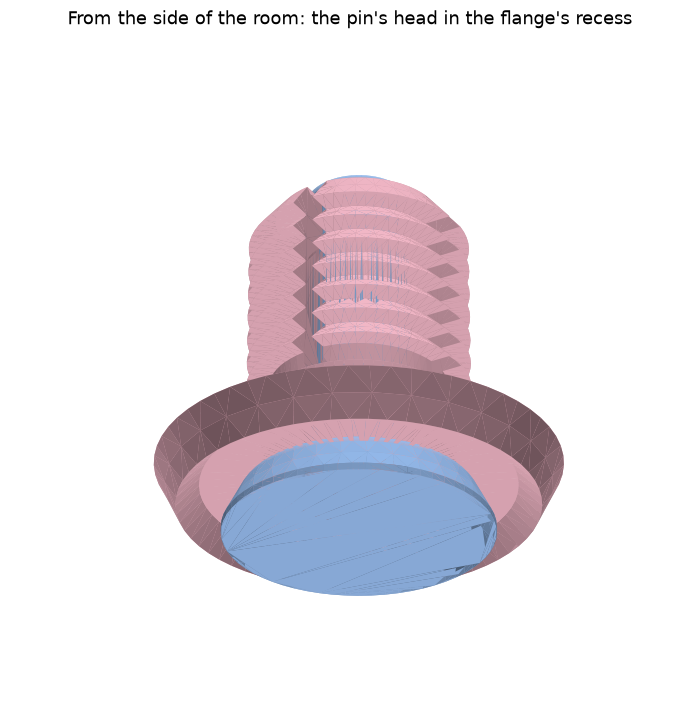
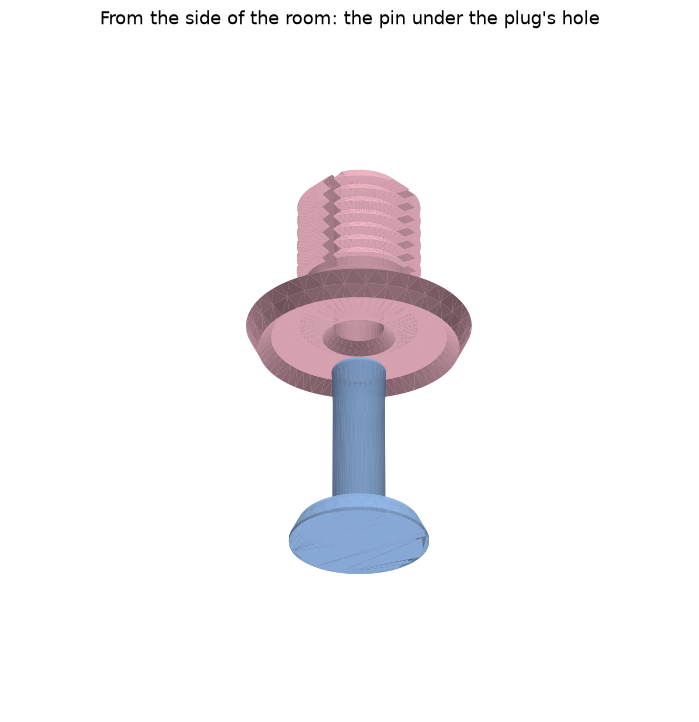
bekant-net-holder: a plug 10/9 as big, as measured on a holder on the desk, and a pin 0.2 mm thinner that spreads its prongs
The model the plug's shape comes from is IKEA's part at 90%: its flange is
18 mm and its collar 9.5 mm, against 20 mm and 10.55 mm measured on the desk.
The hole through the plug is 4.44 mm, narrower than the pin, so the pin pushes
the prongs apart. The pin's shaft is 4.55 mm, widening to 4.78 mm.

Changed region(s): [[0.2103, 0.2133, 0.8112, 0.8227], [0.0901, 0.0, 0.9013, 0.0609]]

diff --git a/parts/bekant-net-holder/part.py b/parts/bekant-net-holder/part.py
@@ -1,7 +1,7 @@
 """bekant-net-holder: a holder for the IKEA Bekant's cable net, in place of IKEA's part 130884.
 
 A plug with barbs goes into a hole under the desk, and its flange holds a loop of the net. A pin goes into the plug
-from below and keeps its four prongs apart, so the barbs stay in the hole.
+from below and pushes its four prongs apart, so the barbs press into the hole's wall.
 
 Every size is a named constant below. Coordinates: x and y across, z up from the flange's rim, the plug's face that
 lies on the plate. Under the desk the whole thing hangs the other way up.
@@ -18,11 +18,8 @@ from build123d import Align, Axis, Box, Circle, Cone, Cylinder, Plane, Pos, Rect
 # run some other way.
 sys.path.insert(0, str(Path(__file__).resolve().parents[2] / "lib"))
 import plate  # noqa: E402
-from printers import chosen  # noqa: E402
 
 HERE = Path(__file__).parent
-# The fits the calibration piece showed for the printer and material the build is for (printers.toml).
-FITS = chosen().fits
 CUT = 1  # a cut runs this far past what it cuts through, so it leaves no skin
 MIN = (Align.CENTER, Align.CENTER, Align.MIN)
 
@@ -32,35 +29,41 @@ HEAD_THICK = 2.3  # the head, from its outer face to the face that lies in the r
 HEAD_EDGE = 0.3  # the head's side is straight this far up from its outer face, then slopes in
 HEAD_FLAT = 8.76  # the head's face in the recess, across its flat
 HEAD_ROUND = 1  # the radius the head's side rounds over with to that face
-PIN = 4.75  # the pin's shaft across
+THINNER = 0.2  # the shaft is this much thinner than the model's, which is too thick for the printed plug's hole
+PIN = 4.75 - THINNER  # the pin's shaft across
 PIN_ROOT = 0.75  # the radius the shaft rounds out with into the head
 PIN_LENGTH = 14.9  # the shaft, from the head to its end
 PIN_STRAIGHT = 11.3  # the shaft is PIN across this far from the head, then widens
-PIN_END = 4.98  # the shaft across at its widest, next to its end
+PIN_END = 4.98 - THINNER  # the shaft across at its widest, next to its end
 PIN_TIP = 0.5  # the radius the shaft's end rounds over with, so it finds the hole
 
-# The plug.
-DESK_HOLE = 9  # the hole under the desk across, the user's measurement on the Bekant
-SLIDE = 0.2  # the room around the collar in that hole, on each side: it slides in
-FLANGE = 18  # the flange across, where it lies against the desk
-RIM = 16  # the flange across at its rim, the edge away from the desk: its side slopes
-FLANGE_THICK = 2  # the flange, from its rim to the desk
-RECESS = 1  # the recess inside the rim, deep; the pin's head sits in it
-RECESS_FLOOR = 14  # that recess across at its floor: it widens to RIM at the rim
-COLLAR = DESK_HOLE - 2 * SLIDE  # the round shaft across, next to the flange
-COLLAR_HEIGHT = 3  # that shaft, up from the flange
-NECK = 8  # the shaft across between the collar and the first barb
-NECK_HEIGHT = 1  # that neck, up from the collar
-BARB = 10  # a barb across at its wide end, which faces the flange: wider than the desk's hole, so it catches
-BARB_ROOT = 7.6  # a barb across at its narrow end
-BARB_PITCH = 1.2  # a barb, up
+# The plug. Its shape is measured on a model of the holder, ikea130884 v2.stl, which is smaller than IKEA's part:
+# the model's flange is 18 mm across and its collar 9.5 mm, and the user measured 20 mm and 10.55 mm on a holder on
+# the desk. Both are 10/9, so every size of the model is made that much bigger.
+RING = 20  # IKEA's flange across, the user's measurement on a holder on the desk
+MODEL_FLANGE = 18  # the model's flange across
+SCALE = RING / MODEL_FLANGE
+SLIDE = 0.2  # the room between the hole's cut-away edge and the pin's root
+FLANGE = MODEL_FLANGE * SCALE  # the flange across, where it lies against the desk
+RIM = 16 * SCALE  # the flange across at its rim, the edge away from the desk: its side slopes
+FLANGE_THICK = 2 * SCALE  # the flange, from its rim to the desk
+RECESS = 1 * SCALE  # the recess inside the rim, deep; the pin's head sits in it
+RECESS_FLOOR = 14 * SCALE  # that recess across at its floor: it widens to RIM at the rim
+COLLAR = 9.5 * SCALE  # the round shaft across, next to the flange
+COLLAR_HEIGHT = 3 * SCALE  # that shaft, up from the flange
+NECK = 8.8 * SCALE  # the shaft across between the collar and the first barb
+NECK_HEIGHT = 1 * SCALE  # that neck, up from the collar
+BARB = 10 * SCALE  # a barb across at its wide end, which faces the flange
+BARB_ROOT = 7.6 * SCALE  # a barb across at its narrow end
+BARB_PITCH = 1.2 * SCALE  # a barb, up
 BARBS = 6
-TIP = 7.6  # the prongs across at their end
-TIP_HEIGHT = 1.5  # the last barb, which narrows to TIP
-HOLE = PIN + 2 * FITS.printed_grip  # the hole through the plug: the pin pushes into it and holds
-HOLE_END = PIN_END + 2 * FITS.printed_grip  # the hole across where the pin is widest
-HOLE_EDGE = PIN_ROOT + SLIDE  # the hole's edge in the recess is cut away this far, so it clears the pin's root
-SLOT = 1  # each of the two slots that split the shaft into four prongs, wide
+TIP = 7 * SCALE  # the prongs across at their end
+TIP_HEIGHT = 1.5 * SCALE  # the last barb, which narrows to TIP
+HOLE = 4 * SCALE  # the hole through the plug: narrower than the pin, which pushes the prongs apart
+HOLE_EDGE = (PIN - HOLE) / 2 + PIN_ROOT + SLIDE  # the hole's edge in the recess is cut away this far: it clears the
+# pin's root and leads the pin in
+SLOT = 1 * SCALE  # each of the two slots that split the shaft into four prongs, wide
+PIN_OUT = 2  # the pin is modelled out of the plug, its end this far under the rim: in the plug it spreads the prongs
 
 RECESS_SLOPE = (RIM - RECESS_FLOOR) / 2 / RECESS  # how much the recess widens for every mm toward the rim
 COLLAR_Z = FLANGE_THICK  # where the collar starts
@@ -68,12 +71,12 @@ NECK_Z = COLLAR_Z + COLLAR_HEIGHT  # where the neck starts, and the slots
 BARB_Z = NECK_Z + NECK_HEIGHT  # where the first barb starts
 TIP_Z = BARB_Z + BARBS * BARB_PITCH  # where the last barb starts
 TOP = TIP_Z + TIP_HEIGHT  # the prongs' end
-WIDENING = PIN_LENGTH - PIN_STRAIGHT - PIN_TIP  # the length the pin's shaft widens over, and the hole with it
+WIDENING = PIN_LENGTH - PIN_STRAIGHT - PIN_TIP  # the length the pin's shaft widens over
 WIDE_Z = RECESS + PIN_STRAIGHT  # where the pin's shaft starts to widen
 HEAD_Z = RECESS - HEAD_THICK  # the head's outer face, which is below the rim
 VIEWS = (
     *plate.ANGLE,
-    ("under.png", -30, -60, "From the side of the room: the pin's head in the flange's recess"),
+    ("under.png", -30, -60, "From the side of the room: the pin under the plug's hole"),
     ("side.png", 0, -90, "From the side: the barbs, and a slot between two prongs"),
 )
 
@@ -94,11 +97,7 @@ def plug():
     for i in range(BARBS):
         shaft += Pos(0, 0, BARB_Z + i * BARB_PITCH) * Cone(BARB / 2, BARB_ROOT / 2, BARB_PITCH, align=MIN)
     shaft += Pos(0, 0, TIP_Z) * Cone(BARB / 2, TIP / 2, TIP_HEIGHT, align=MIN)
-    # The hole follows the pin: straight, then wider. The prongs bend apart to let the pin's wide end through the
-    # straight length. The wide lengths run past the prongs' end when the pin does.
-    hole = Pos(0, 0, -CUT) * Cylinder(HOLE / 2, WIDE_Z + CUT, align=MIN)
-    hole += Pos(0, 0, WIDE_Z) * Cone(HOLE / 2, HOLE_END / 2, WIDENING, align=MIN)
-    hole += Pos(0, 0, WIDE_Z + WIDENING) * Cylinder(HOLE_END / 2, TOP + CUT, align=MIN)
+    hole = Pos(0, 0, -CUT) * Cylinder(HOLE / 2, TOP + 2 * CUT, align=MIN)
     hole += Pos(0, 0, RECESS) * Cone(HOLE / 2 + HOLE_EDGE, HOLE / 2, HOLE_EDGE, align=MIN)
     return flange + shaft - recess - hole - slot() - Rot(0, 0, 90) * slot()
 
@@ -137,9 +136,10 @@ def pin():
 
 def main():
     # The recess's floor hangs over the plate, so it prints on supports. They stand on the plate only: the barbs'
-    # flat faces are 1.2 mm ledges and print without.
+    # flat faces are 1.3 mm ledges and print without.
     supports = {"enable_support": "1", "support_on_build_plate_only": "1"}
-    plate.run(HERE, printed={"plug": plug(), "pin": pin()}, slicer={"plug": supports}, views=VIEWS)
+    out = Pos(0, 0, -(RECESS + PIN_LENGTH + PIN_OUT)) * pin()
+    plate.run(HERE, printed={"plug": plug(), "pin": out}, slicer={"plug": supports}, views=VIEWS)
 
 
 if __name__ == "__main__":

diff --git a/parts/bekant-net-holder/README.md b/parts/bekant-net-holder/README.md
@@ -2,7 +2,7 @@
 
 A holder for the IKEA Bekant's cable net, in place of IKEA's part 130884. A plug with barbs goes
 into a hole under the desk, and its flange holds a loop of the net. A pin goes into the plug and
-keeps its prongs apart, so the barbs stay in the hole.
+pushes its prongs apart, so the barbs press into the hole's wall.
 
 ![bekant-net-holder](pictures/angle.png)
 
@@ -17,32 +17,37 @@ keeps its prongs apart, so the barbs stay in the hole.
 | `plug` | 1 | Standing on its flange's rim, prongs up | Under the recess's floor, from the plate only |
 | `pin` | 1 | Standing on its head, shaft up | None |
 
-The hole under the desk is 9 mm across. The plug's flange is 18 mm across against the desk and
-16 mm at its rim, 2 mm thick. Inside the rim is a recess 1 mm deep, 14 mm across at its floor,
-which the pin's head sits in. The shaft is 12.7 mm long: an 8.6 mm collar, 3 mm high, which
-slides into the desk's hole with 0.2 mm on either side, an 8 mm neck, 1 mm high, and seven barbs.
-Each barb is 10 mm across at its flat face, which faces the flange, and narrows away from it. The
-barbs are wider than the desk's hole: the prongs bend in to pass it, and the barbs catch behind
-it. Two slots, 1 mm wide, cross the shaft from the collar to its end and split it into four
-prongs. The wall of a prong is 1.3 mm at its thinnest, between two barbs.
+The plug's shape is measured on a model of the holder, `ikea130884 v2.stl`, and made 10/9 as big.
+The model's flange is 18 mm across and its collar 9.5 mm. On a holder on the desk they measure
+20 mm and 10.55 mm.
 
-The pin's head is 12 mm across and 2.3 mm thick. Its shaft is 14.9 mm long and ends 1.2 mm past
-the prongs. It is 4.75 mm across for 11.3 mm from the head, then widens to 4.98 mm next to its
-round end. Where it meets the head it rounds out with a radius of 0.75 mm.
+The plug's flange is 20 mm across against the desk and 17.8 mm at its rim, 2.2 mm thick. Inside
+the rim is a recess 1.1 mm deep, 15.6 mm across at its floor, which the pin's head sits in. The
+shaft is 14.1 mm long: a 10.6 mm collar, 3.3 mm high, a 9.8 mm neck, 1.1 mm high, and seven barbs.
+Each barb is 11.1 mm across at its flat face, which faces the flange, and narrows away from it.
+Two slots, 1.1 mm wide, cross the shaft from the collar to its end and split it into four prongs.
+The wall of a prong is 2 mm at its thinnest, between two barbs.
 
-The hole through the plug follows the pin: the pin's shaft and the `printed_grip` fit from
-`printers.toml` on either side, 4.85 mm on the P2S in PLA, widening with the pin toward the
-prongs' end. The pin pushes in firmly and holds, so it does not fall out under the desk. Its wide
-end bends the prongs apart on its way through the straight length. The hole's edge in the recess
-is cut away at 45°, so it clears the round at the pin's head.
+The pin's head is 12 mm across and 2.3 mm thick. Its shaft is 14.9 mm long and ends 0.3 mm short
+of the prongs' end. It is 4.55 mm across for 11.3 mm from the head, then widens to 4.78 mm next to
+its round end. Where it meets the head it rounds out with a radius of 0.75 mm. The head and the
+lengths are measured on a model of a pin, `Ikea Bekant Cable Holder Pin.stl`. The shaft is 0.2 mm
+thinner than the model's, which is too thick for the printed plug's hole.
+
+The hole through the plug is 4.4 mm, narrower than the pin. The pin pushes the prongs apart on its
+way in, by 0.1 mm across the barbs and 0.3 mm at its wide end, and they press into the hole's
+wall. The hole's edge in the recess is cut away at 45°, so it leads the pin in and clears the
+round at the pin's head.
 
 The plug prints standing, since it is round. Its layers lie across the prongs, which bend in on
-their way into the desk. The recess's floor hangs 1 mm over the plate and prints
+their way into the desk. The recess's floor hangs 1.1 mm over the plate and prints
 on supports that stand on the plate (`enable_support`, `support_on_build_plate_only`). The barbs'
-flat faces are ledges of 1.2 mm and print without supports.
+flat faces are ledges of 1.3 mm and print without supports.
 
-The pin prints standing on its head. Its shaft only fills the hole and takes no bending. It
+The pin prints standing on its head. Its shaft only spreads the prongs and takes no bending. It
 widens by 0.1 mm a side over 3.1 mm, which prints without supports.
+
+The pictures show the pin out of the plug, under its hole.
 
 ## Putting it together
 
